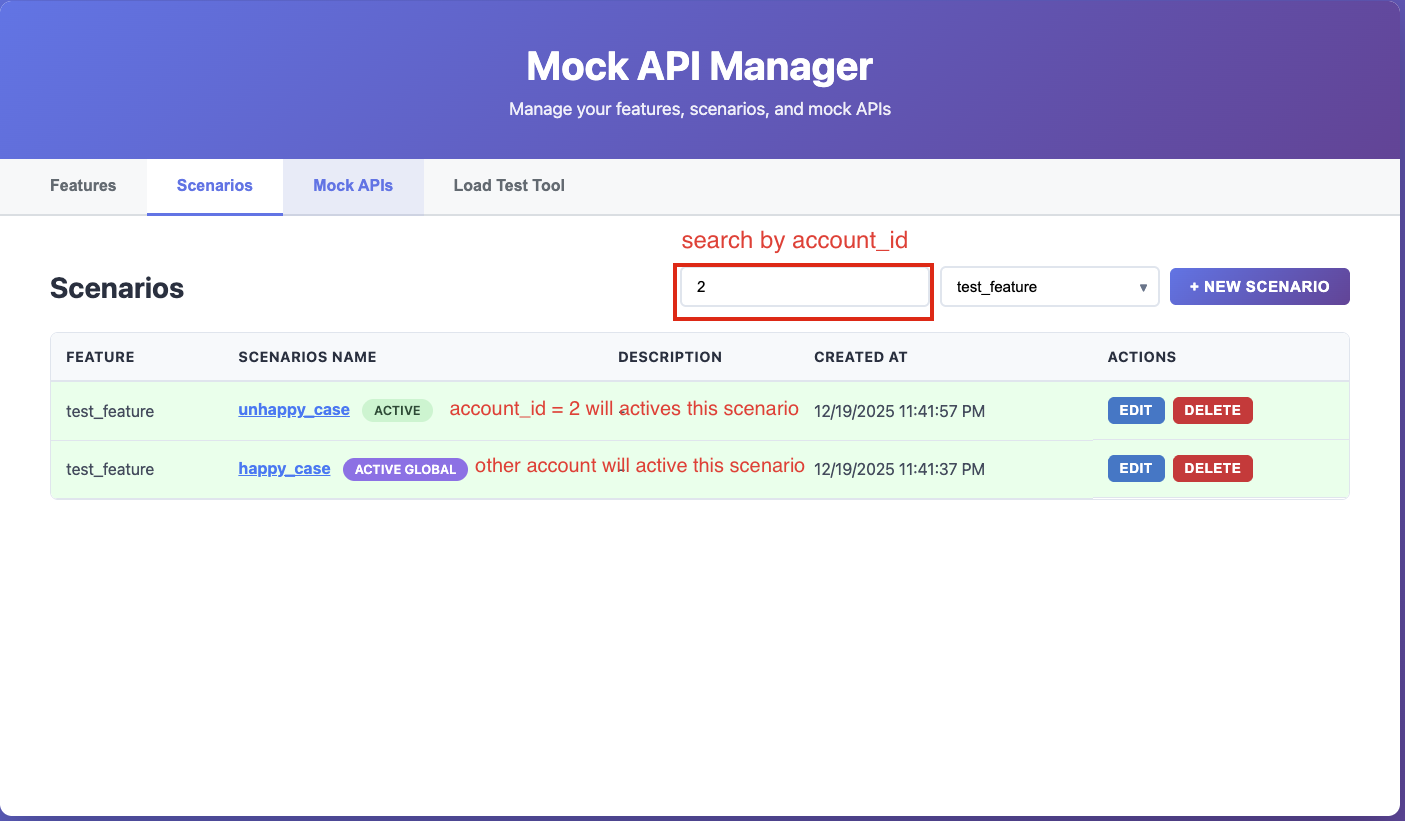
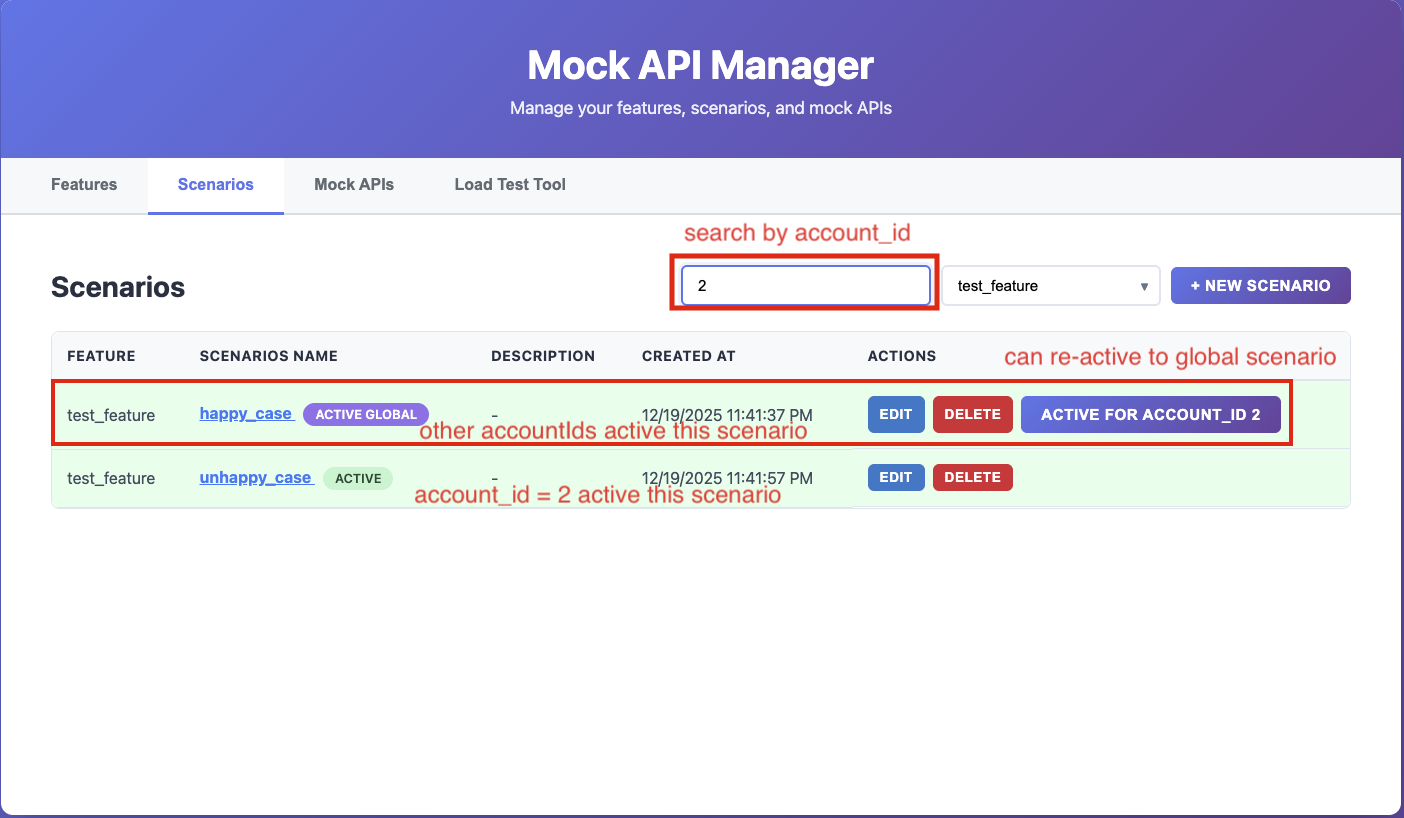
update readme

diff --git a/README.md b/README.md
@@ -126,8 +126,15 @@ forwardReq.Header.Set("X-Account-Id", accountId)
 - Setup globally scenario => All accountIds will have the same result
 
 ![doc/2.png](doc/2.png)
+
+Can re-active global scenario by account_id
+
 ![doc/3.png](doc/3.png)
 ![doc/4.png](doc/4.png)
+
+Cache in Redis with template: `mocktool:<feature>:<scenario>:<account_id>:<path>:<method>:<hash_input>`
+
+![doc/4_1.png](doc/4_1.png)
 
 => Make sure 1 API can response expecting answer for a accountId
 
